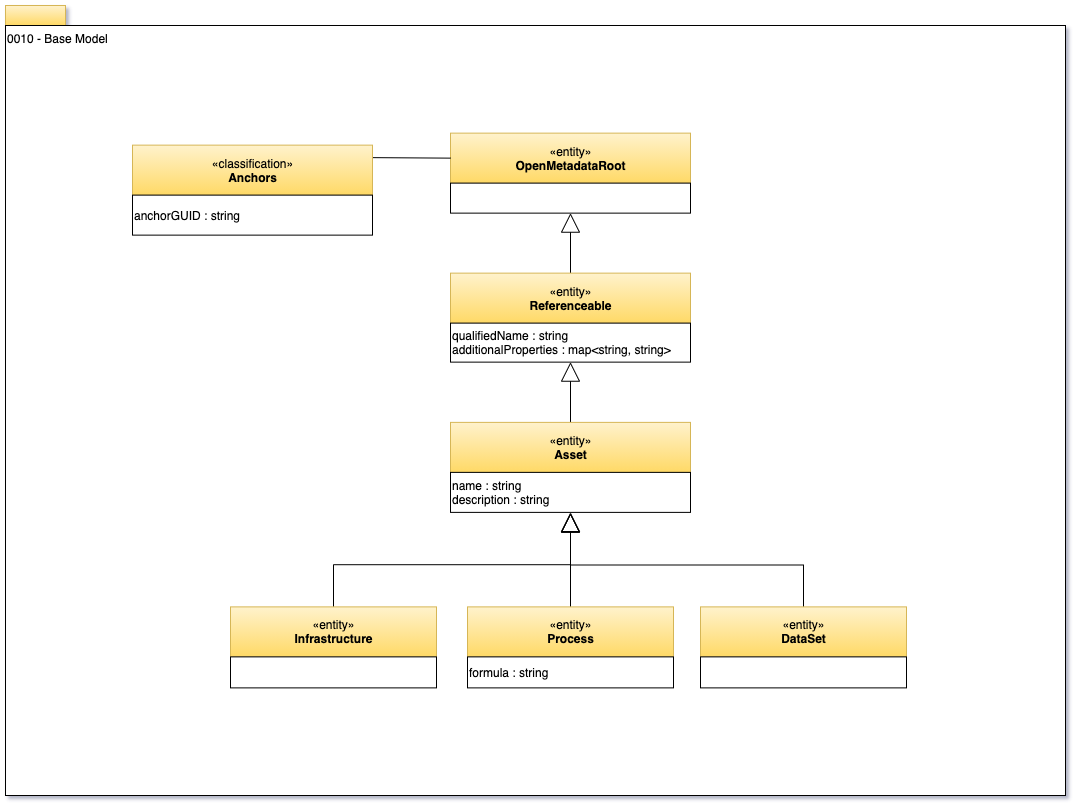
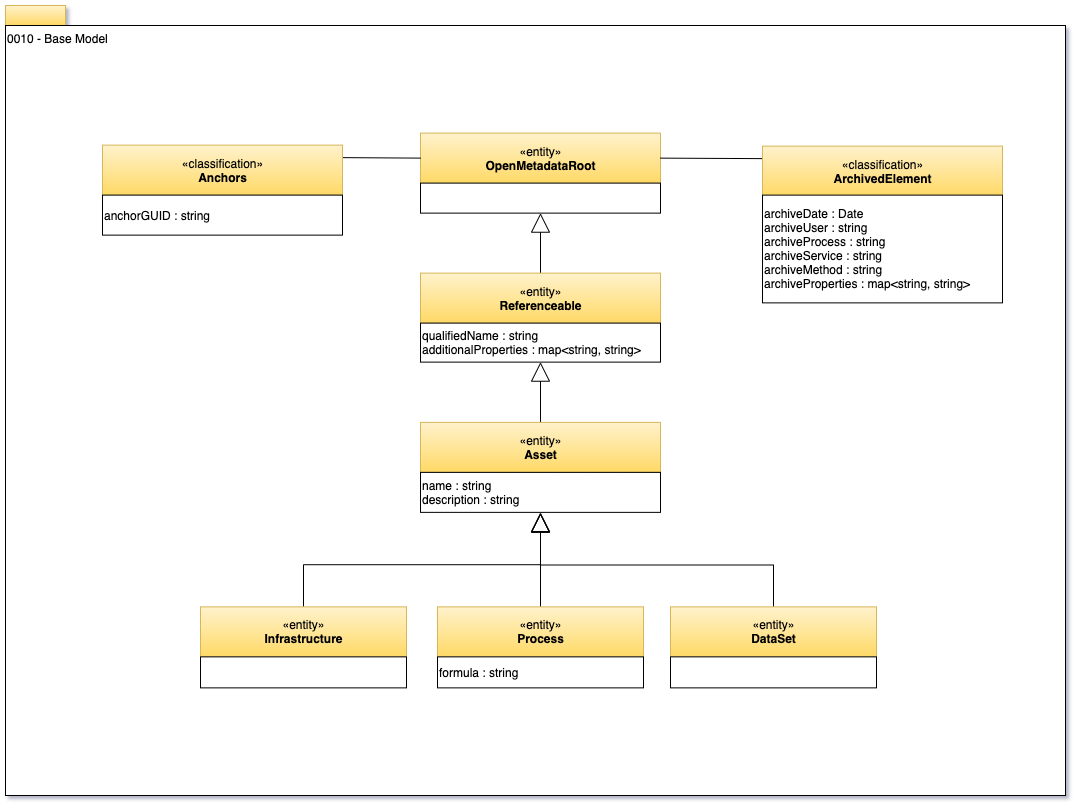
New archive type documentation

diff --git a/open-metadata-publication/website/open-metadata-types/0010-Base-Model.md b/open-metadata-publication/website/open-metadata-types/0010-Base-Model.md
@@ -48,11 +48,19 @@ Currently there is support for objects uniquely "owned" an asset to store the gu
 for a schema element to point to the schema type at the root of the schema object and a comment
 to store the guid at the start of a comment thread.
 
+Finally, the **ArchivedElement** classification identifies that the Referenceable
+refers to a real-world asset/artifact that has either been deleted or archived offline.  The metadata
+element has been retained to show its role in the lineage of other
+assets/artifacts.  The properties in this classification identifies
+the archive processing and any information that helps to locate
+the asset/artifact in the archive (if applicable).
+
 ## More information
 
 * [Referenceables](../../../open-metadata-implementation/access-services/docs/concepts/referenceable.md)
 * [Assets](../../../open-metadata-implementation/access-services/docs/concepts/assets)
 * [Anchors](../../../open-metadata-implementation/access-services/docs/concepts/anchor.md)
+* [Lineage](../lineage)
 
 
 ----

diff --git a/open-metadata-publication/website/open-metadata-types/0011-Managing-Referenceables.md b/open-metadata-publication/website/open-metadata-types/0011-Managing-Referenceables.md
@@ -20,8 +20,8 @@ without this classification as templates.  The Template classification is simply
 to enable templates to be found.  
 
 When one referenceable is created by using another referencable as
-as a template, the **qualifiedName** must be changed
-in the new referenceable as it has to be a unique name - often the **displayName** changes too.
+a template, the **qualifiedName** must be changed
+in the new referenceable to give it a unique name - often the **displayName** changes too.
 This makes it hard to identify which referenceables have been created from a template.
 The **SourcedFrom** relationship is used to show the provenance of the information from the template.
 This is useful to help trace where information has come from and to help understand any
